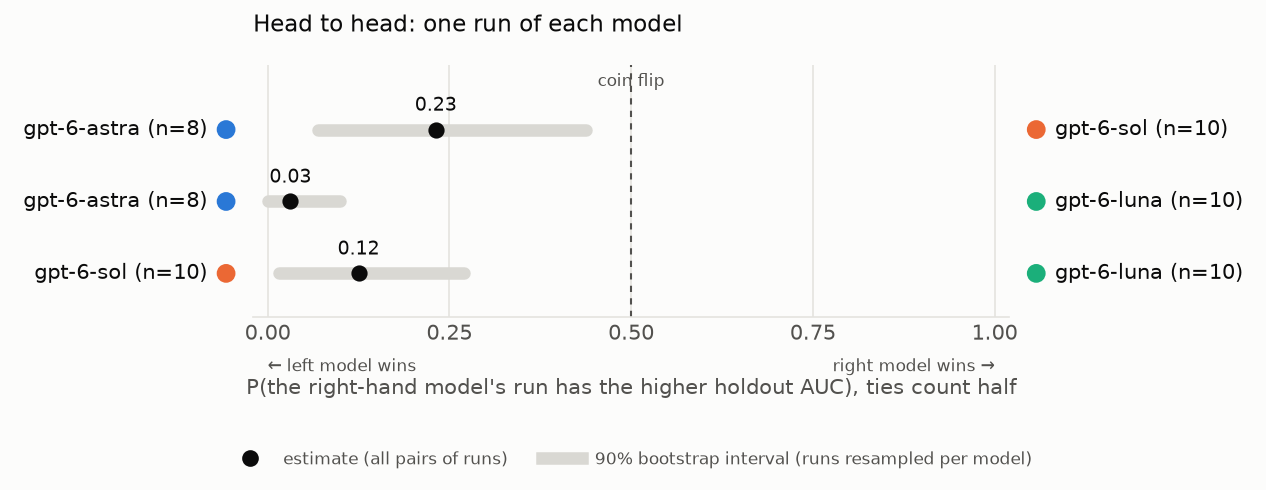
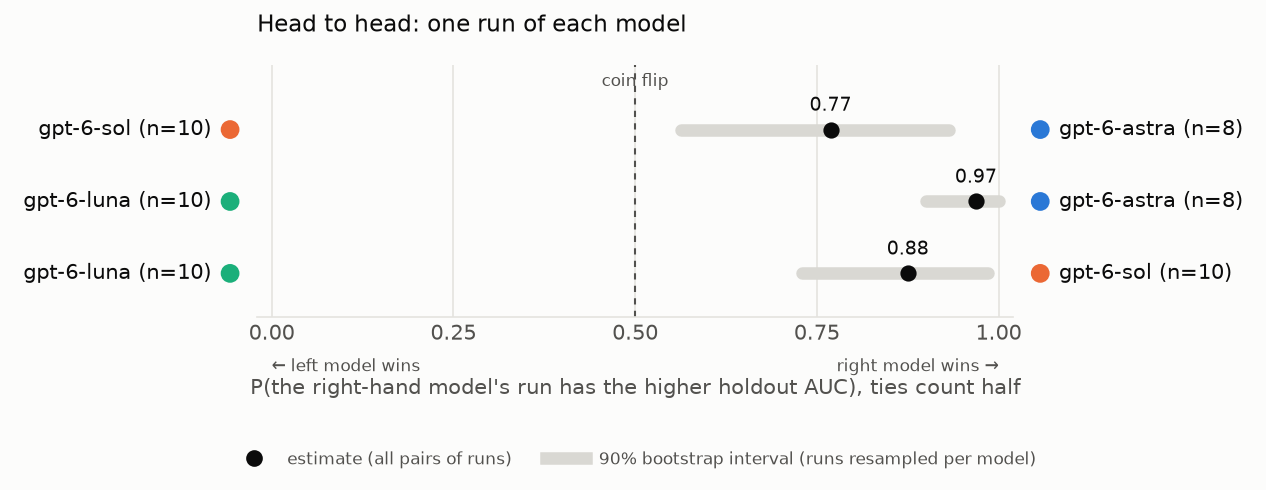
Pairwise plot: better model on the right
The dot is now P(the better model wins) and sits near 1, leaning toward it.

diff --git a/tools/pairwise_win_prob.py b/tools/pairwise_win_prob.py
@@ -15,7 +15,7 @@ plot_holdout_auc.py. Runs with valid = "no" are left out; caveat runs are
 included unless --no-caveat is given.
 
 run-multi/SUMMARY/holdout_auc_pairwise.png - one row per pair of models, the
-  better one by mean holdout AUC labelled on the left, the other on the right:
+  better one by mean holdout AUC labelled on the right, the other on the left:
   a dot at P(the right-hand model wins), so it leans toward the usual winner,
   its 90% bootstrap interval and a reference line at 0.5 (coin flip).
   Not written with --no-caveat.
@@ -73,8 +73,8 @@ def compare(a, b, rng):
 def plot(rows, runs):
     """rows: (better model, worse model, P, lo, hi), drawn top to bottom.
 
-    The better model (by mean) is labelled on the left of its row, the other on the
-    right; x is P(the right-hand model wins), so each dot leans toward the model
+    The better model (by mean) is labelled on the right of its row, the other on the
+    left; x is P(the right-hand model wins), so each dot leans toward the model
     that usually wins.
     """
     h = 1.6 + 0.5 * len(rows)
@@ -84,13 +84,12 @@ def plot(rows, runs):
     ax.text(0.5, len(rows) - 0.45, "coin flip", color=INK2, fontsize=8, ha="center", va="bottom")
     for i, (m1, m2, p, lo, hi) in enumerate(rows):
         y = len(rows) - 1 - i
-        q, qlo, qhi = 1 - p, 1 - hi, 1 - lo  # P(right-hand model wins)
-        ax.plot([qlo, qhi], [y, y], color=RANGE, lw=6, solid_capstyle="round", zorder=2)
-        ax.scatter(q, y, s=46, color=INK, zorder=3)
-        ax.text(q, y + 0.2, f"{q:.2f}", color=INK, fontsize=9, ha="center", va="bottom")
+        ax.plot([lo, hi], [y, y], color=RANGE, lw=6, solid_capstyle="round", zorder=2)
+        ax.scatter(p, y, s=46, color=INK, zorder=3)
+        ax.text(p, y + 0.2, f"{p:.2f}", color=INK, fontsize=9, ha="center", va="bottom")
 
     # model labels: a dot in the model's colour (as in the other plots) and the name in ink,
-    # model 1 outside the left edge, model 2 outside the right edge
+    # model 2 outside the left edge, model 1 (the better one) outside the right edge
     colour = model_colours(runs)
     ax.set_yticks(range(len(rows)))
     ax.set_yticklabels([])
@@ -103,7 +102,7 @@ def plot(rows, runs):
 
     for i, (m1, m2, *_) in enumerate(rows):
         y = len(rows) - 1 - i
-        for m, x, dx, align, dot_first in ((m1, 0, -8, (1, 0.5), False), (m2, 1, 8, (0, 0.5), True)):
+        for m, x, dx, align, dot_first in ((m2, 0, -8, (1, 0.5), False), (m1, 1, 8, (0, 0.5), True)):
             ax.add_artist(AnnotationBbox(label(m, dot_first), (x, y), xycoords=("axes fraction", "data"),
                                          xybox=(dx, 0), boxcoords="offset points", box_alignment=align,
                                          frameon=False, annotation_clip=False))
